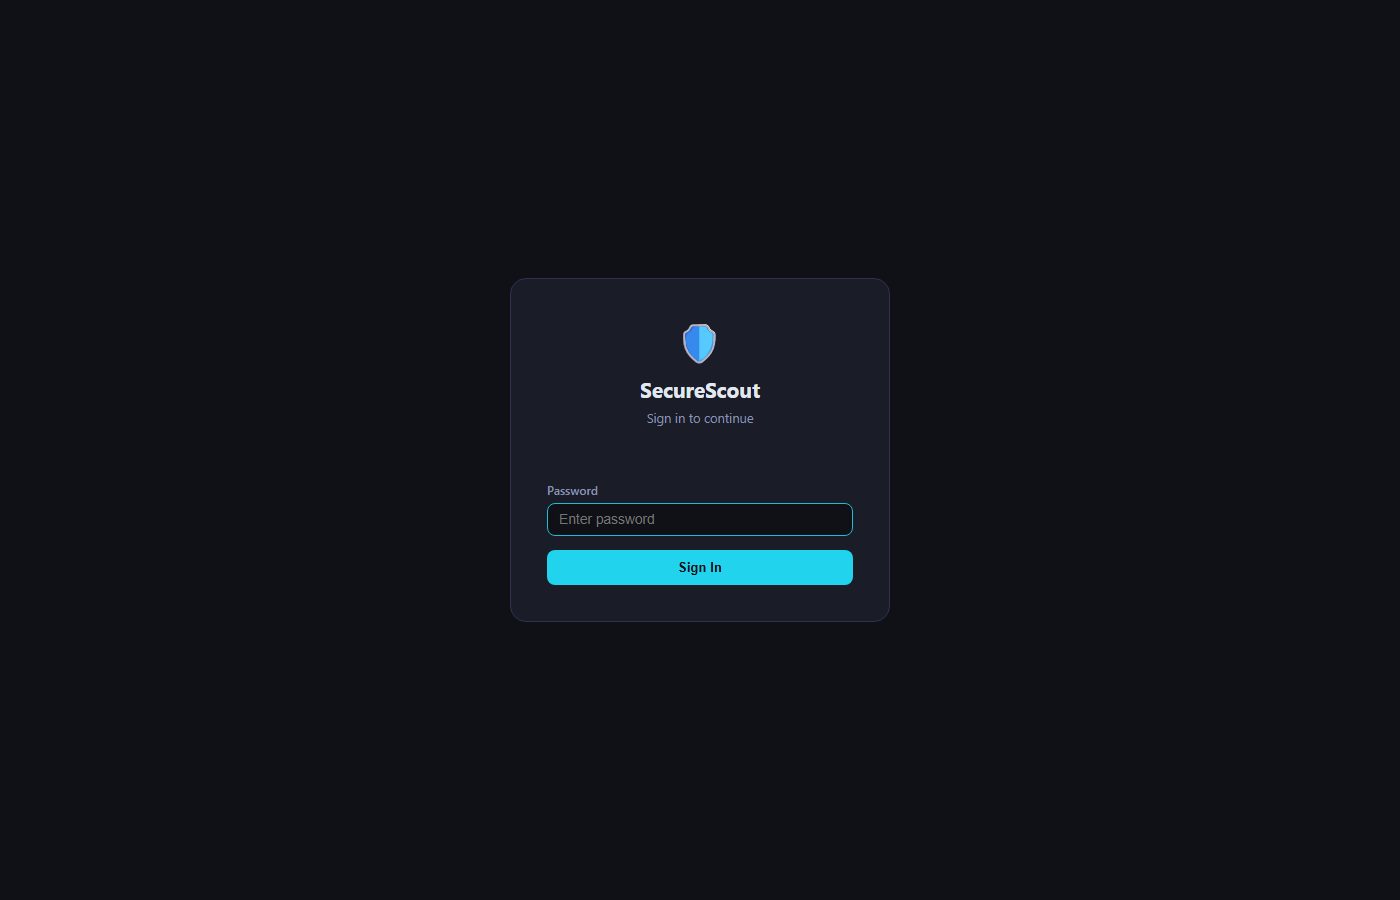
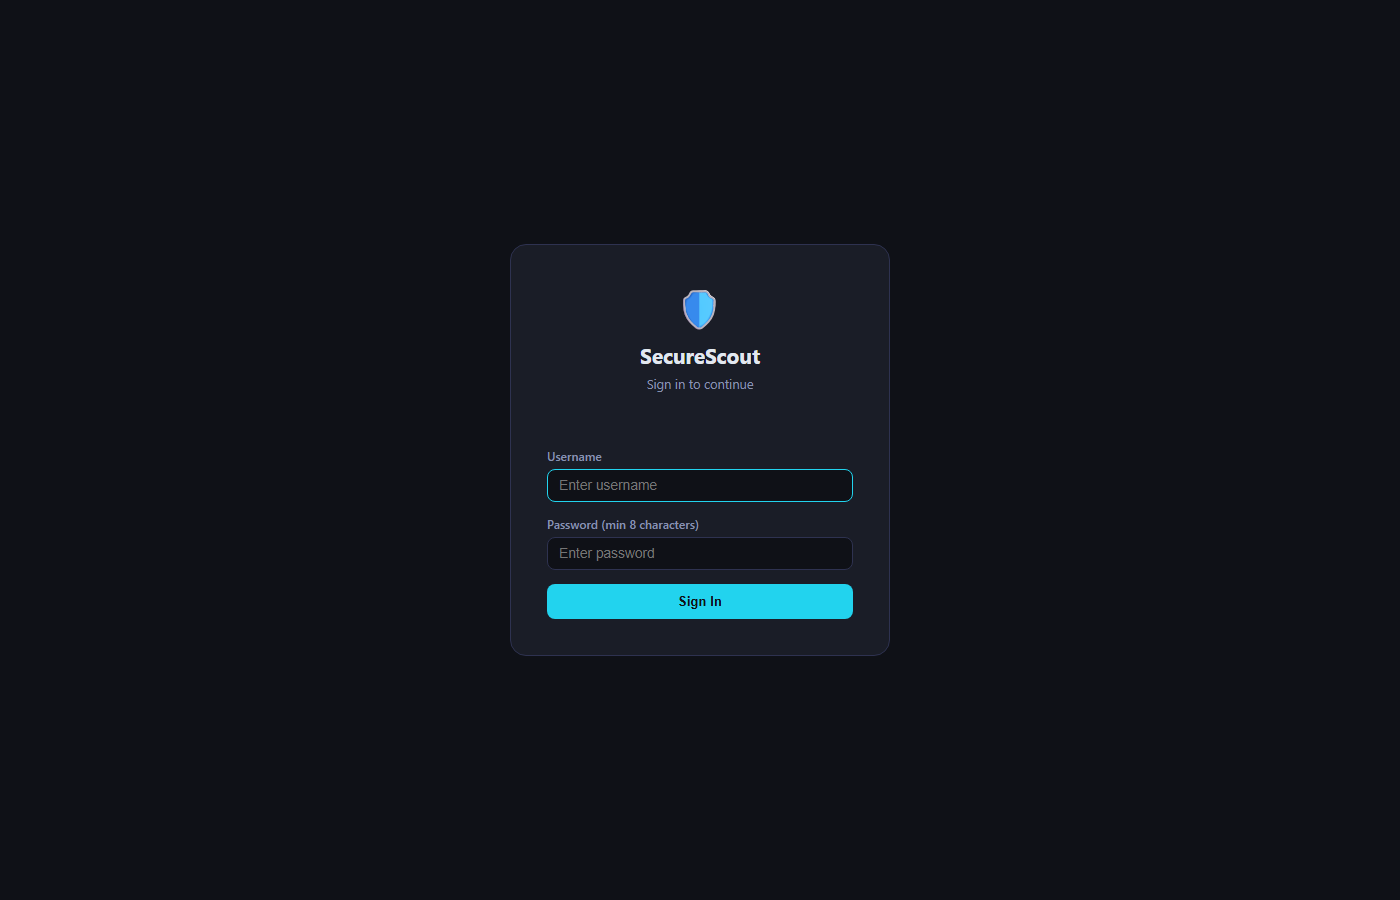
docs: update README and screenshots for multi-user account system
- Add setup, admin header, users modal, and read-only view screenshots
- Update login screenshot to show username field
- Add User Management section with role table and lockout safeguards
- Update Features list: multi-user accounts + scrypt-hashed per-user passwords
- Add /api/users endpoints (GET, POST, DELETE, PATCH) to API table
- Update /api/status and /api/setup descriptions to match new auth flow
- Update Getting Started to describe first-run admin account creation

Changed region(s): [[0.3686, 0.4978, 0.6143, 0.7156], [0.4607, 0.3111, 0.5529, 0.4667]]

diff --git a/README.md b/README.md
@@ -30,8 +30,20 @@ A self-hosted security dashboard for monitoring your web services. Checks SSL ce
 ![Fix Recommendations](docs/screenshots/03_fix_recommendation.png)
 *Click any failing header to expand a copy-ready Nginx directive*
 
+![Setup](docs/screenshots/01_setup.png)
+*First-run setup — create your admin account with username + password*
+
 ![Login](docs/screenshots/01_login.png)
-*Password-protected — scrypt-hashed, 24hr session tokens*
+*Login screen — username and password, 24hr session tokens*
+
+![Admin Header](docs/screenshots/10_admin_header.png)
+*Admin header — shows logged-in user, role, and admin-only controls*
+
+![User Management](docs/screenshots/10c_users_modal.png)
+*User Management modal — add users, set roles, remove accounts*
+
+![Read-only View](docs/screenshots/10d_readonly_view.png)
+*Read-only user view — no Add Site, no Remove buttons; can scan but not modify*
 
 ![Add Site](docs/screenshots/04_add_site_modal.png)
 *Add any service on the fly — scans immediately and persists to config*
@@ -51,7 +63,8 @@ A self-hosted security dashboard for monitoring your web services. Checks SSL ce
 - **Fix Recommendations** — click any failing header to expand a copy-ready Nginx directive
 - **Scan History** — grade sparkline per service showing trend across last 15 scans
 - **Discord Alerts** — notifies on site down/up, SSL expiry < 30 days, header grade drop
-- **Password Protection** — scrypt-hashed password with 24hr session tokens
+- **Multi-user Accounts** — admin creates named user accounts; two roles: `admin` (full access) and `read-only` (view + trigger scans, no service modification); user management modal with inline role change and remove
+- **Password Protection** — scrypt-hashed passwords with 24hr session tokens; per-user sessions invalidated on removal
 
 ## Tech Stack
 
@@ -105,7 +118,23 @@ Edit `config.json`:
 node server.js
 ```
 
-Open `http://localhost:3002` in your browser. On first visit you will be prompted to set a password.
+Open `http://localhost:3002` in your browser. On first visit you will be prompted to create an admin account (username + password). After that, log in normally — additional users can be added from the Users button in the header.
+
+## User Management
+
+SecureScout supports multiple named user accounts with two roles:
+
+| Role | Can do |
+|---|---|
+| `admin` | View, scan, add/remove services, manage users, change any password |
+| `read-only` | View dashboard, trigger scans — cannot add/remove services or manage users |
+
+On first run you create an **admin** account. After logging in, click **👥 Users** in the header to:
+- Add new users and assign a role
+- Change an existing user's role inline
+- Remove a user (their sessions are immediately invalidated)
+
+Admins cannot remove themselves or change their own role (to prevent accidental lockout).
 
 ## Deployment (systemd)
 
@@ -175,11 +204,15 @@ All endpoints except `/api/login`, `/api/setup`, and `/api/status` require a val
 | Endpoint | Method | Description |
 |---|---|---|
 | `GET /` | GET | Dashboard UI |
-| `GET /api/status` | GET | Auth status (passwordSet, authenticated) |
-| `POST /api/setup` | POST | Set initial password (first run only) |
+| `GET /api/status` | GET | Auth status — returns `setupDone`, `authenticated`, `role`, `username` |
+| `POST /api/setup` | POST | Create initial admin account (first run only) |
 | `POST /api/login` | POST | Authenticate and get session token |
 | `POST /api/logout` | POST | Invalidate session token |
-| `POST /api/change-password` | POST | Change password |
+| `POST /api/change-password` | POST | Change own password |
+| `GET /api/users` | GET | List all users — admin only |
+| `POST /api/users` | POST | Create a user — admin only |
+| `DELETE /api/users` | DELETE | Remove a user — admin only |
+| `PATCH /api/users` | PATCH | Change a user's role — admin only |
 | `GET /api/services` | GET | List configured services |
 | `POST /api/services` | POST | Add a service and trigger scan |
 | `DELETE /api/services` | DELETE | Remove a service |